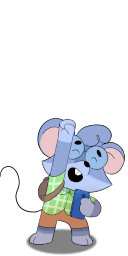
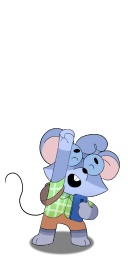
* fixed some bad sized images * added totem randomness

Changed region(s): [[0.0312, 0.4375, 1.0, 1.0], [0.0312, 0.6875, 0.0625, 0.7188], [0.0, 0.6562, 0.0312, 0.6875]]

diff --git a/ui/Background.qml b/ui/Background.qml
@@ -32,6 +32,7 @@ Canvas
 
     property var isWallpaper: true
     property var rats: true
+    property var totem: false
     property var baseColor: "#2980b9"
     property var seed : 0
     property var ambient: (isWallpaper) ? 0.2 : 0.4
@@ -178,6 +179,12 @@ Canvas
             var h = ww*sh;
             //console.log(w,h);
             //ctx.drawImage(img,win[0],win[1]-h,w,h);
+
+            // hack
+            if (img == images[13]) {
+                win[1]+=32;
+            }
+
             ctx.drawImage(img,win[0]-(sw/2),win[1]-sh,sw,sh);
 
         }
@@ -227,6 +234,10 @@ Canvas
             loadImage(images[n]);
         }
 
+        if (isWallpaper && rats) {
+            totem = (Math.random() > 0.9);
+        }
+
         bbox = S3d.box(scene);
         cbox = S3d.center(bbox);
 
@@ -251,19 +262,32 @@ Canvas
 
             var color = scene[s][1];
 
-            if (color == S3d.KEYCODE_MICE) {
-                places.push([tx,ty,tz]);
+            if (totem) {
+                if (color == S3d.KEYCODE_TOTEM) {
+                    places.push([tx,ty,tz]);
+                }
+            }
+            else {
+                if (color == S3d.KEYCODE_MICE) {
+                    places.push([tx,ty,tz]);
+                }
             }
 
         }
 
-
         places = places.sort( () => Math.random() - 0.5 );
 
-        characters.push([images[rand_int(1,4)],places[0]]);
-        characters.push([images[rand_int(5,8)],places[1]]);
-        characters.push([images[rand_int(9,12)],places[2]]);
-
+        if (totem) {
+            characters.push([images[13],places[0]]);
+            characters.push([images[14],places[1]]);
+            characters.push([images[15],places[2]]);
+            characters.push([images[16],places[3]]);
+        }
+        else {
+            characters.push([images[rand_int(1,4)],places[0]]);
+            characters.push([images[rand_int(5,8)],places[1]]);
+            characters.push([images[rand_int(9,12)],places[2]]);
+        }
     }
 
     function computeRatio()
@@ -339,6 +363,10 @@ Canvas
                 mv = S3d.mat4_mult(mv,mrot2);
 
                 var pos = S3d.vec4_mult([1.0,0.1,-1.0,1],mv);
+
+                if (img == images[13]) {
+                    lights.push([pos,[1,1,1,1],200]);
+                }
 
                 //draw_sprite(img,pos,1.5,3);
                 draw_sprite(img,pos,128,256);
